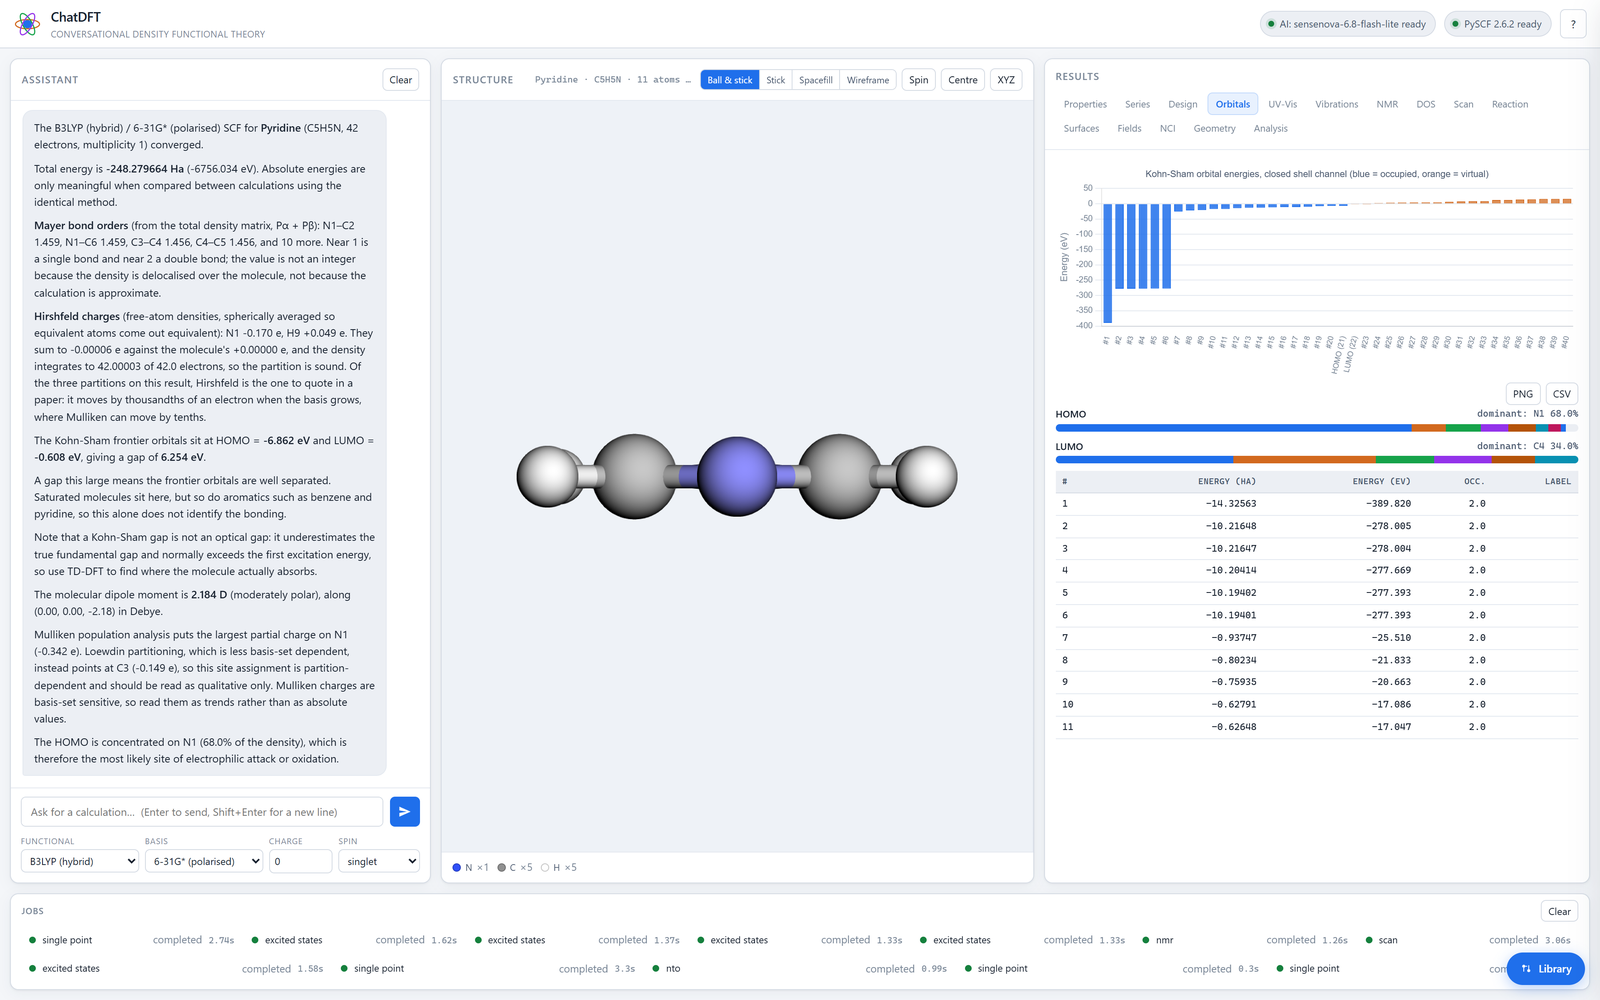
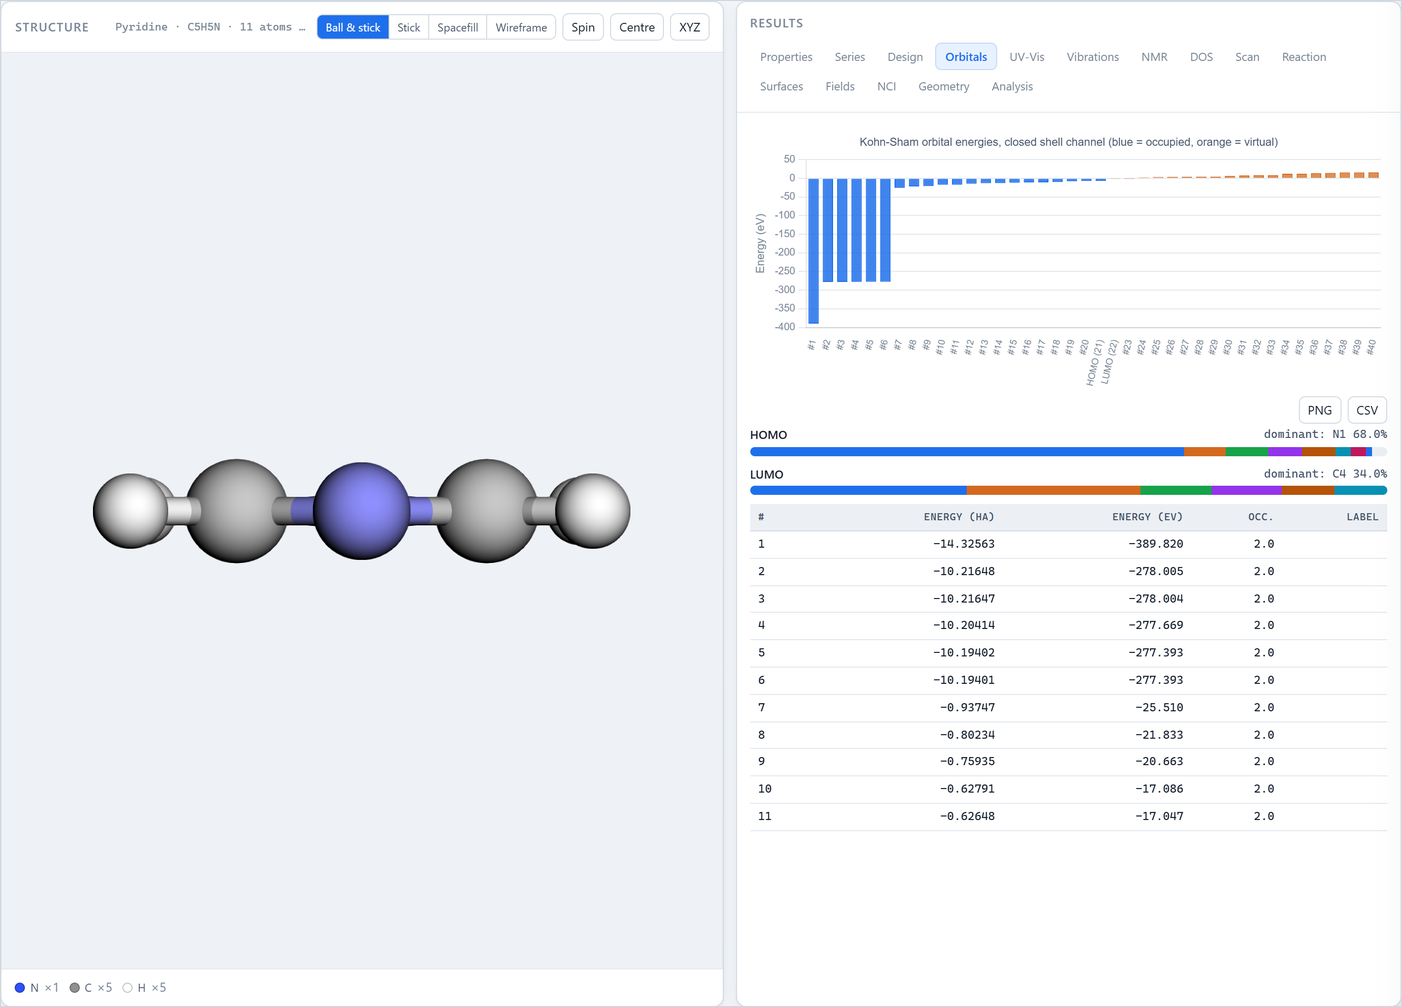
docs: rebuild the gallery so the screenshots can actually be read
The first gallery was a two-column table of whole-window screenshots. It looked
wrong and I could not say why, so I screenshotted the rendered GitHub page
instead of reasoning about it: GitHub renders a README in an 838 px column, so
each 1600 px capture was displayed at 392x245 and the results pane -- 35 % of
the window, so 293 px on screen -- was below the size at which any of it can be
read. Nine grey wireframes, and the captions were <sub> runs that collapsed
into a single line.

What changed:

* Each capture now names the region it wants.  The window is 27 / 38 / 35
  (chat / structure / results) and the figures live in the last two, so
  'results' captures the results panel alone -- 672 CSS px, saved at 1.79x,
  displayed at 125 % of life size -- and 'viewer+results' takes the structure
  viewer with it for the three figures where the 3D render is the point.  Only
  the hero is a whole window, because its job is to show the three-pane layout.

* The hero is now the app *in use*.  Photographed empty it was three grey
  rectangles and a suggestion list: an honest picture of the app before
  anything happens and a useless one.

* Every image gets a 1 px frame.  Without it the screenshot's own white
  background is the page's white background and the picture reads as a smudge.

* Captions are real markdown -- a bold title, the sentence that was typed, and
  a line of description -- instead of one run-on <sub>.
[…]

diff --git a/README.md b/README.md
@@ -14,46 +14,60 @@ your machine, at the moment you ask for it.
 ### The workbench
 
 Every picture below is a screenshot of the running application answering a real
-question. Nothing is mocked up, composited or re-drawn — if the orbital looks
-like that, it is because SCF produced it. Click any image to see it full size.
+question, and each one names the sentence that produced it. Nothing is mocked
+up, composited or re-drawn — if the orbital looks like that, it is because SCF
+produced it. Click any image to see it full size.
 
-<img src="docs/img/01-home.png" width="100%"
-     alt="Three-pane workbench: chat on the left, the 3D structure in the middle, the results dashboard on the right">
+![The workbench in use](docs/img/01-home.png)
 
-<table>
-<tr>
-<td width="50%"><img src="docs/img/02-orbitals.png" width="100%" alt="Kohn-Sham orbital ladder for pyridine"><br>
-<sub><b>Kohn–Sham orbital ladder</b> — <i>“What is the HOMO-LUMO gap of pyridine?”</i><br>
-every orbital, labelled with its spin channel and its Löwdin composition</sub></td>
-<td width="50%"><img src="docs/img/03-uvvis.png" width="100%" alt="TD-DFT UV-Vis absorption curve for formaldehyde"><br>
-<sub><b>UV-Vis absorption</b> — <i>“Compute the first 6 excited states of formaldehyde”</i><br>
-TD-DFT (Tamm–Dancoff), Lorentzian-broadened, on a relative and an absolute ε axis</sub></td>
-</tr>
-<tr>
-<td width="50%"><img src="docs/img/04-scan.png" width="100%" alt="Rigid potential-energy scan along the O-H bond of water"><br>
-<sub><b>Rigid bond scan</b> — <i>“Scan the O-H bond of water”</i><br>
-twelve points, the fitted minimum, and an anharmonicity check</sub></td>
-<td width="50%"><img src="docs/img/05-nmr.png" width="100%" alt="GIAO NMR spectrum of water"><br>
-<sub><b>NMR spectrum</b> — <i>“What are the NMR shieldings of water?”</i><br>
-GIAO shielding tensors against a reference computed by the same code</sub></td>
-</tr>
-<tr>
-<td width="50%"><img src="docs/img/06-series.png" width="100%" alt="Series trend chart over four molecules"><br>
-<sub><b>Series and trend</b> — <i>“Show me a series of benzene, pyridine, furan and pyrrole”</i><br>
-four molecules at one level of theory, so the numbers are directly comparable</sub></td>
-<td width="50%"><img src="docs/img/07-vibrations.png" width="100%" alt="Harmonic IR spectrum of water"><br>
-<sub><b>IR spectrum</b> — <i>“Compute the IR spectrum of water”</i><br>
-analytic Hessian, harmonic frequencies, intensities in km/mol, sum-rule checked</sub></td>
-</tr>
-<tr>
-<td width="50%"><img src="docs/img/08-geometry.png" width="100%" alt="Optimised geometry of benzene with bond lengths and angles"><br>
-<sub><b>Geometry optimisation</b> — <i>“Optimise the geometry of benzene”</i><br>
-analytic-gradient BFGS, with the bond lengths and angles it converged to</sub></td>
-<td width="50%"><img src="docs/img/09-nci.png" width="100%" alt="NCI reduced-density-gradient plot for the water dimer"><br>
-<sub><b>NCI / RDG analysis</b> — <i>“NCI of the water dimer”</i><br>
-reduced density gradient against sign(λ₂)ρ, with the cut-off reported</sub></td>
-</tr>
-</table>
+**The workbench** — chat, 3D structure and results, side by side.<br>
+*“What is the HOMO-LUMO gap of naphthalene?”* — the answer, the property
+cards, the atomic charges and the job history, all from one SCF run.
+
+![TD-DFT UV-Vis absorption curve for formaldehyde](docs/img/03-uvvis.png)
+
+**UV-Vis absorption** · *“Compute the first 6 excited states of formaldehyde”*<br>
+TD-DFT (Tamm–Dancoff) vertical excitations, Lorentzian-broadened, on a relative
+and an absolute ε axis, with the oscillator strengths and ε<sub>max</sub> per band.
+
+![NCI reduced-density-gradient plot for the water dimer](docs/img/09-nci.png)
+
+**NCI / RDG analysis** · *“NCI of the water dimer”*<br>
+Reduced density gradient against sign(λ₂)ρ, with the cut-off reported and the
+weak interaction named.
+
+![GIAO NMR spectrum of water](docs/img/05-nmr.png)
+
+**NMR spectrum** · *“What are the NMR shieldings of water?”*<br>
+GIAO shielding tensors against a reference computed by the same code, with the
+integral drawn as the stick heights.
+
+![Kohn–Sham orbital ladder for pyridine](docs/img/02-orbitals.png)
+
+**Kohn–Sham orbital ladder** · *“What is the HOMO-LUMO gap of pyridine?”*<br>
+Every orbital, labelled with its spin channel, and the Löwdin composition of
+the frontier pair.
+
+![Series trend chart over four molecules](docs/img/06-series.png)
+
+**Series and trend** · *“Show me a series of benzene, pyridine, furan and pyrrole”*<br>
+Four molecules at one level of theory, so the numbers are directly comparable.
+
+![Optimised geometry of benzene](docs/img/08-geometry.png)
+
+**Geometry optimisation** · *“Optimise the geometry of benzene”*<br>
+Analytic-gradient BFGS, with the bond lengths and angles it converged to.
+
+![Harmonic IR spectrum of water](docs/img/07-vibrations.png)
+
+**IR spectrum** · *“Compute the IR spectrum of water”*<br>
+Analytic Hessian, harmonic frequencies, absolute intensities in km/mol,
+sum-rule checked.
+
+![Rigid potential-energy scan along the O-H bond of water](docs/img/04-scan.png)
+
+**Rigid bond scan** · *“Scan the O-H bond of water”*<br>
+Twelve points, the fitted minimum, and an anharmonicity check.
 
 ---
 
